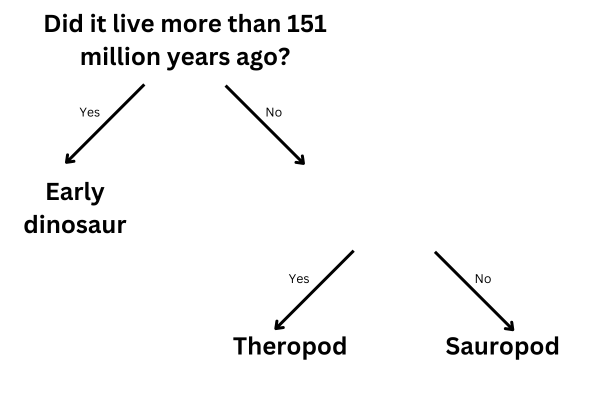
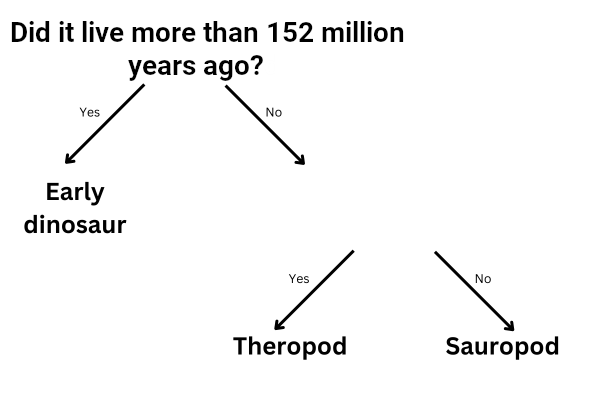
Update to 152 million years

Changed region(s): [[0.0, 0.03, 0.69, 0.21]]

diff --git a/en/step_4.md b/en/step_4.md
@@ -21,7 +21,7 @@ title: Show me the answer
 
 No, because there are now three dinosaurs that lived more than 130 million years ago, but they are in different categories. 
 
-Even if you changed the criteria to **more than 151 million years ago**, you still can't separate them into three categories. 
+Even if you changed the criteria to **more than 152 million years ago**, you still can't separate them into three categories. 
 
 
 --- /collapse ---
@@ -36,7 +36,7 @@ To put dinosaurs in three categories, you need to add another question.
 
 + What question could you write using this data in the blank space to correctly categorise the remaining dinosaurs?
 
-![A decision tree with the first question 'Did it live more than 151 million years ago?' with yes = Early dinosaur and No = a blank space for a second question.](images/decision2.png)
+![A decision tree with the first question 'Did it live more than 152 million years ago?' with yes = Early dinosaur and No = a blank space for a second question.](images/decision2.png)
 
 --- collapse ---
 --- 
